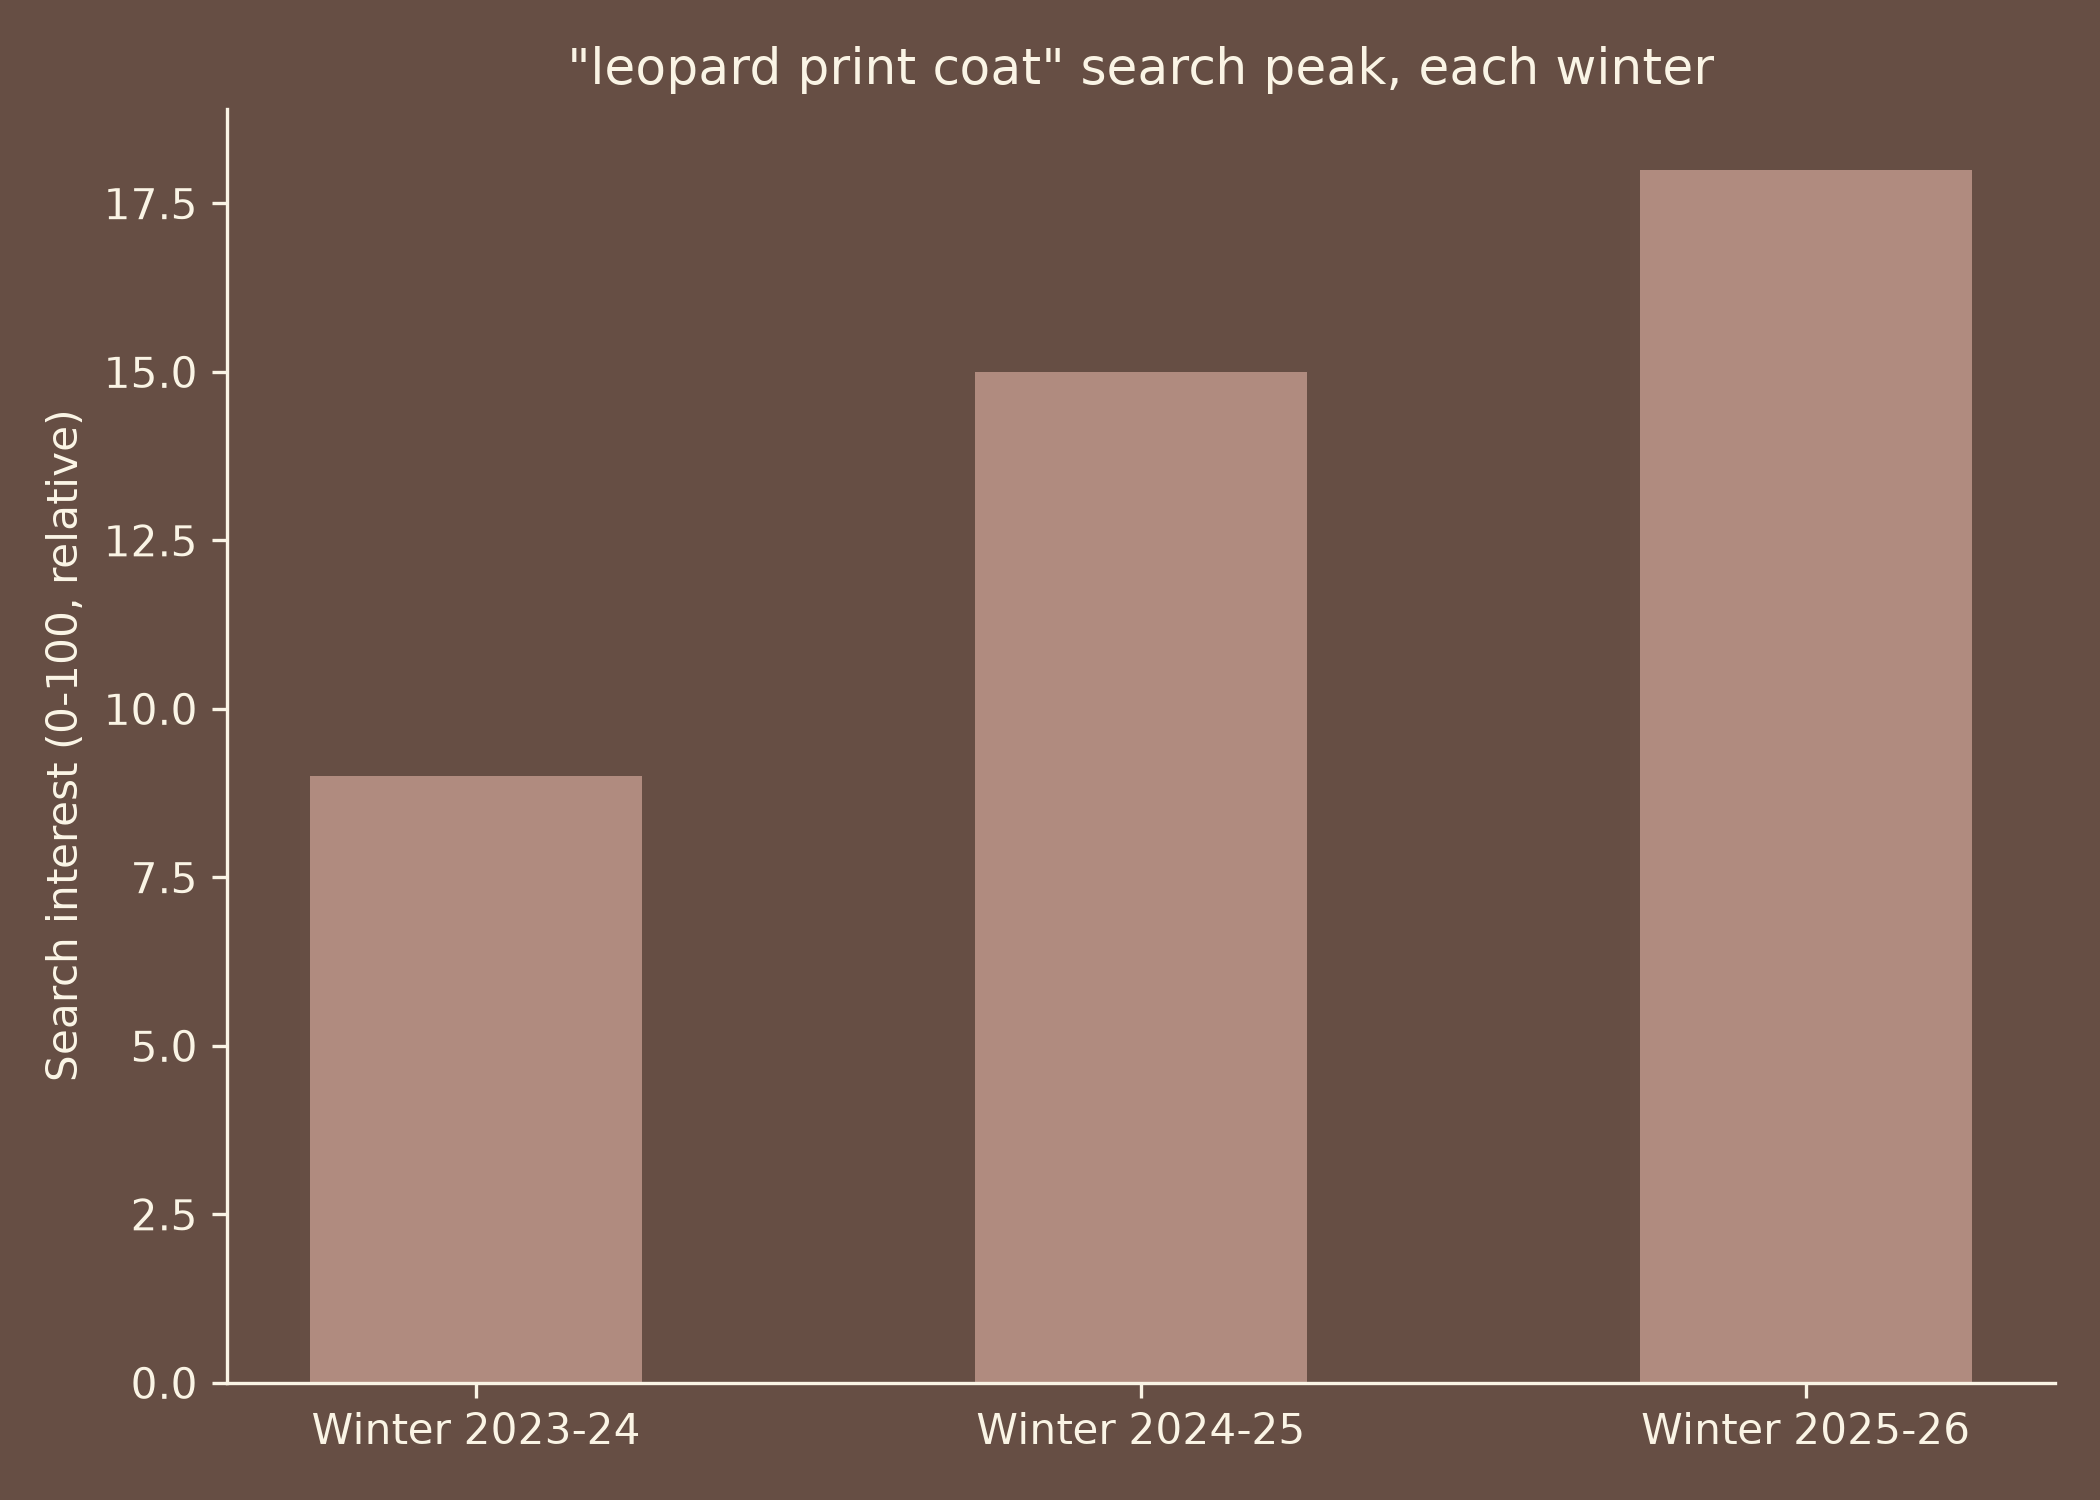
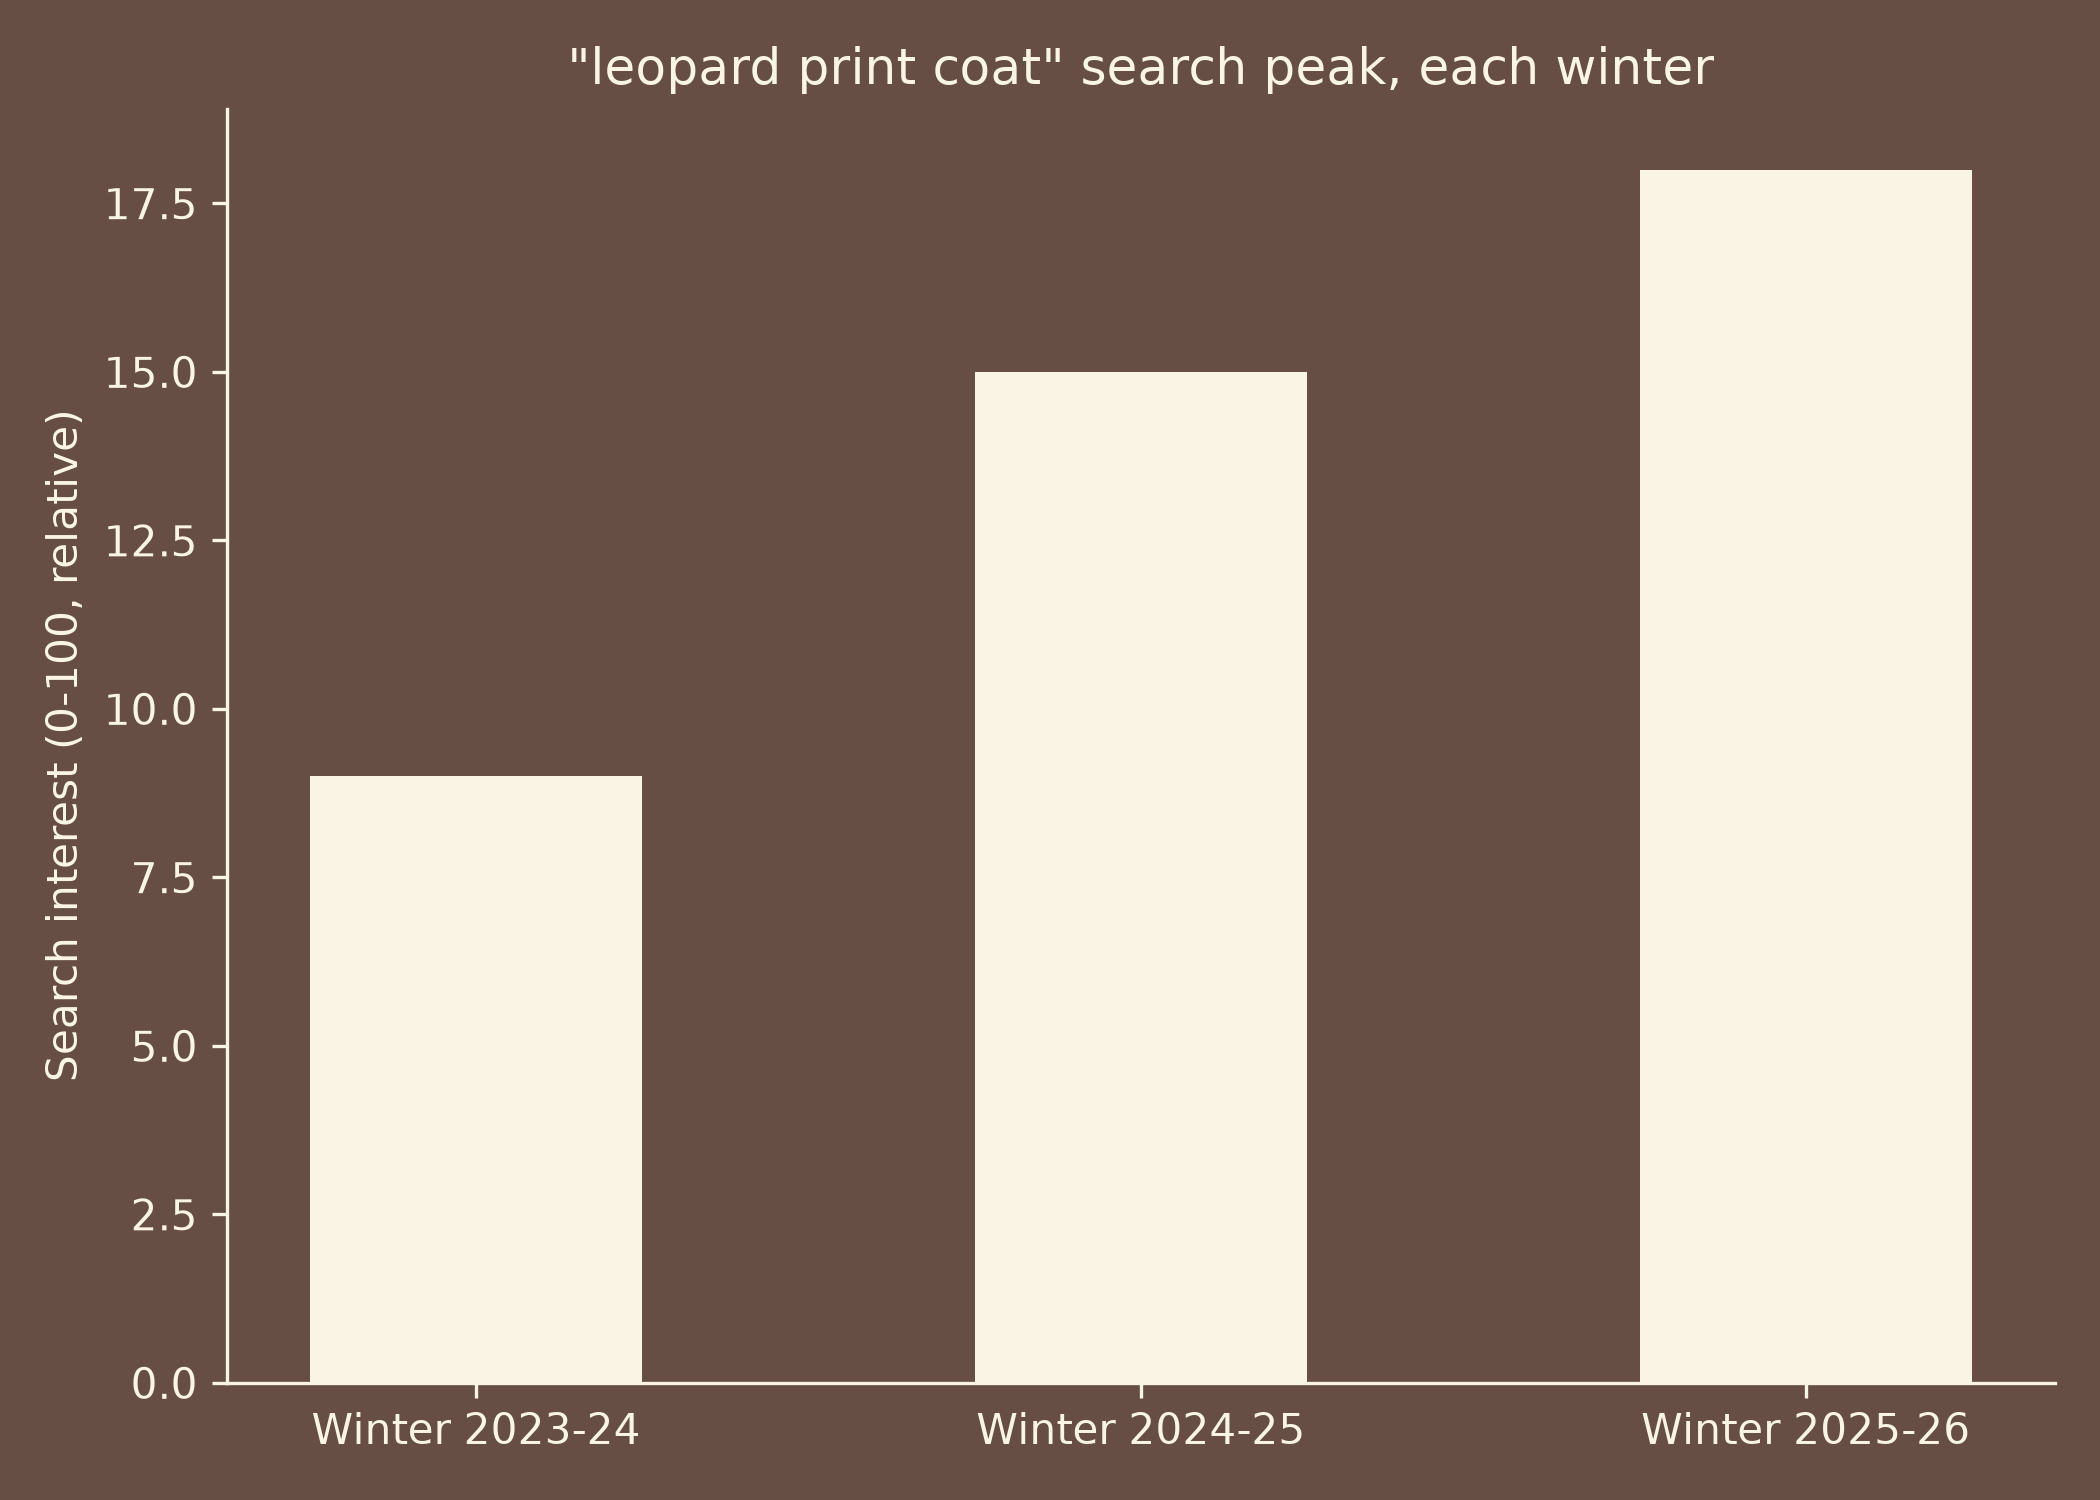
updated the slides text

Changed region(s): [[0.7738, 0.092, 0.9595, 0.92], [0.4643, 0.2453, 0.65, 0.92], [0.1238, 0.4907, 0.3095, 0.92]]

diff --git a/content/posts/issue-03-hot-take-cold-coat/slides.md b/content/posts/issue-03-hot-take-cold-coat/slides.md
@@ -62,9 +62,9 @@ Citation on chart: (Google Trends, US, winter peaks 2023-24 through 2025-26)
 `Slide 7 — THE TAKE`
 
 **Headline:** Even the coat wasn't buying it.
-Sub-headline: The label collapsed in six weeks. The coats it was supposedly built on didn't blink, they're still on Depop right now for AU$40-150, same as they'd be any other winter. Globally, the industry produces far more than anyone wears: a garbage truck's worth of textiles gets landfilled or burned every second. A trend dying fast doesn't mean what it was selling goes anywhere. It just means the industry's already moved on to the next name.
+Sub-headline: The trend collapsed in six weeks. The coats it was supposedly built on didn't blink, they're still on Depop right now for US$28-105, same as they'd be any other winter. Globally, the industry produces far more than anyone wears: a garbage truck's worth of textiles gets landfilled or burned every second. A trend dying fast doesn't mean what it was selling goes anywhere. It just means the industry's already moved on to the next name.
 Citation: (Depop, 2026; Ellen MacArthur Foundation, 2017)
-Aside: "No Godfather-style loyalty here. Even the merch moved on faster than the fans did." (reference, not a quoted line)
+Aside: "It had makeover-movie energy from day one. Six weeks later, there was no makeover to show for it." (reference, not a quoted line)
 
 ---
 
